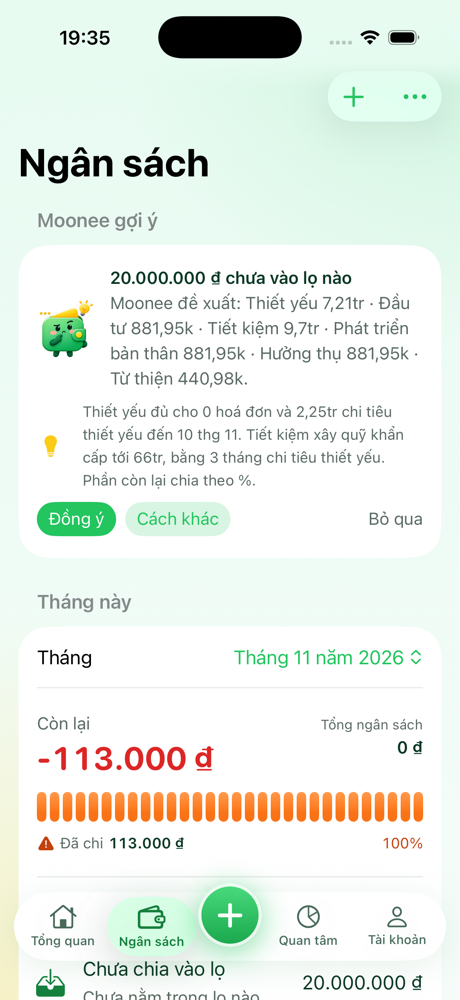
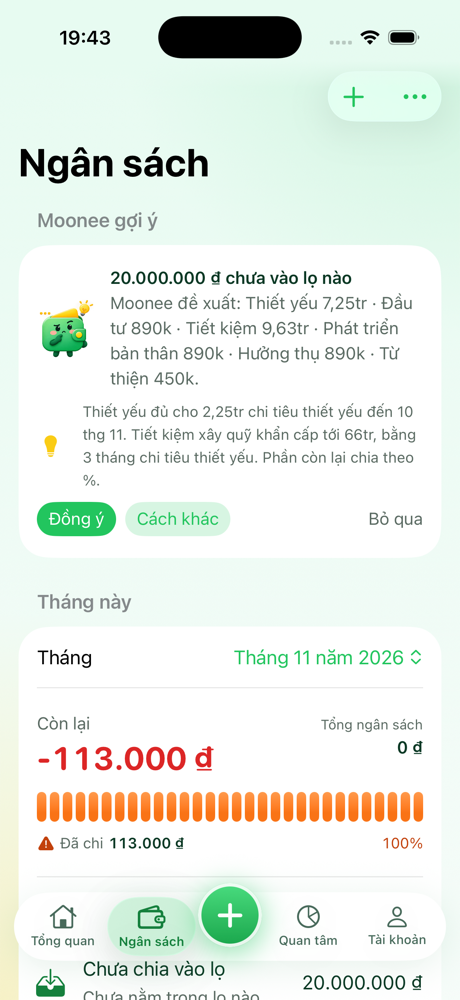
Advisor: clean rounded amounts (Savings absorbs the rest), no zero parts in the why line

Changed region(s): [[0.1826, 0.279, 0.913, 0.496], [0.1826, 0.031, 0.2435, 0.062]]

diff --git a/Moonee/Features/Budget/BudgetAdvisor.swift b/Moonee/Features/Budget/BudgetAdvisor.swift
@@ -230,7 +230,40 @@ struct BudgetAdvisor: Sendable {
         let split = Ledger<String>.split(rest, by: input.jars.map { ($0.id, $0.percent) })
         if split.isEmpty { p.kept += rest } else { p.byPercent = rest }
         for (id, a) in split { p.shares[id, default: 0] += a }
+        p.shares = clean(p.shares)
         return p
+    }
+
+    /// A clean step for an amount: VND/LAK 10k under 1tr, 50k under 10tr, 100k above; other currencies two leading
+    /// digits (881.95 → 10, 7,240 → 100).
+    func step(_ amount: Int) -> Int {
+        let unit = Int(pow(10, Double(AmountFormat.fractionDigits(input.currency))))
+        let major = max(abs(amount) / unit, 1)
+        if ["VND", "LAK"].contains(input.currency) {
+            return (major < 1_000_000 ? 10_000 : major < 10_000_000 ? 50_000 : 100_000) * unit
+        }
+        return max(Int(pow(10, floor(log10(Double(major))) - 1)), 1) * unit
+    }
+
+    /// Rounds down to a clean step, a finer one when the amount is smaller than the step (a daily allowance).
+    func roundDown(_ amount: Int) -> Int {
+        var st = step(amount)
+        while st > 1, amount < st { st /= 10 }
+        return amount / st * st
+    }
+
+    /// Rounds each jar's share up to a clean step (so a need or a refill is never short) and lets Savings (or the last
+    /// jar with a share) absorb the difference, so the plan still adds up exactly. Too small to round: unchanged.
+    func clean(_ shares: [String: Int]) -> [String: Int] {
+        let order = input.jars.map(\.id).filter { shares[$0, default: 0] > 0 }
+        guard let sink = savings.map(\.id).flatMap({ order.contains($0) ? $0 : nil }) ?? order.last else { return shares }
+        var out = shares
+        for id in order where id != sink {
+            let a = shares[id]!, st = step(a)
+            out[id] = (a + st - 1) / st * st
+        }
+        out[sink] = shares.values.reduce(0, +) - out.filter { $0.key != sink }.values.reduce(0, +)
+        return out[sink]! >= 0 ? out : shares
     }
 
     /// Money to cover a jar below zero (`target`) or the jars' promise beyond the wallets (`target` nil), in order:
@@ -245,12 +278,13 @@ struct BudgetAdvisor: Sendable {
             .map { ($0.id, $0.balance, true) }
         var left = need, moves: [Move] = [], reserve = false
         for s in sources where left > 0 && s.available > 0 {
-            let a = min(left, s.available)
+            // A clean amount when the source has it, else exactly what is needed (or all it has).
+            let st = step(left), rounded = (left + st - 1) / st * st, a = rounded <= s.available ? rounded : min(left, s.available)
             moves.append(Move(from: s.id, to: target, amount: a))
             reserve = reserve || s.reserve
             left -= a
         }
-        return (moves, reserve, left)
+        return (moves, reserve, max(left, 0))
     }
 
     /// Every piece of advice that applies now, most urgent first, for the level and without muted kinds.
@@ -321,10 +355,10 @@ struct BudgetAdvisor: Sendable {
             .map { ($0, Double($0.spent) / Double($0.budget)) }
             .filter { $0.1 >= 0.5 && $0.1 - gone >= 0.3 }
             .max { $0.1 - gone < $1.1 - gone }
-        if let (j, used) = fast {
+        if let (j, used) = fast, case let raw = j.balance / daysLeft, case let daily = roundDown(raw) {
             out.append(Advice(kind: .pace, title: String(localized: "\(j.name) is going fast", table: "Budget"),
-                              text: String(localized: "\(Int((used * 100).rounded()))% spent with \(Int((gone * 100).rounded()))% of the month gone. Keep to about \(money(j.balance / daysLeft)) a day until the month ends.", table: "Budget"),
-                              ref: j.id, amount: j.balance / daysLeft))
+                              text: String(localized: "\(Int((used * 100).rounded()))% spent with \(Int((gone * 100).rounded()))% of the month gone. Keep to about \(money(daily)) a day until the month ends.", table: "Budget"),
+                              ref: j.id, amount: daily))
         }
 
         if daysLeft <= 3, let play = input.jars.first(where: { $0.role == .play && $0.balance > 0 }), let s = savings {
@@ -400,8 +434,9 @@ struct BudgetAdvisor: Sendable {
     func why(_ p: Plan) -> String {
         var parts: [String] = []
         if let e = essentials, p.shares[e.id] ?? 0 > 0, p.bills + p.spending > 0 {
-            parts.append(p.bills > 0
+            parts.append(p.bills > 0 && p.spending > 0
                 ? String(localized: "\(e.name) covers \(short(p.bills)) of bills and \(short(p.spending)) of everyday needs until \(day(p.until)).", table: "Budget")
+                : p.bills > 0 ? String(localized: "\(e.name) covers \(short(p.bills)) of bills until \(day(p.until)).", table: "Budget")
                 : String(localized: "\(e.name) covers \(short(p.spending)) of everyday needs until \(day(p.until)).", table: "Budget"))
         }
         if p.refill > 0 { parts.append(String(localized: "\(short(p.refill)) refills jars below zero.", table: "Budget")) }

diff --git a/MooneeTests/BudgetAdvisorTests.swift b/MooneeTests/BudgetAdvisorTests.swift
@@ -74,6 +74,9 @@ import Testing
         #expect(plan.bills == 5_140_000)
         #expect(plan.shares["jar.essentials", default: 0] >= 5_140_000 + 113_000)
         #expect(plan.emergency > 0)
+        let shares = plan.shares.filter { $0.key != "jar.savings" }
+        #expect(shares.allSatisfy { $0.value % pay.advisor.step($0.value) == 0 }) // clean steps
+        #expect(plan.shares.values.reduce(0, +) == 40_000_000)
 
         // One tap records it into the bank and splits it by that plan.
         let t = try #require(BudgetActions.apply(card, date: at(11, 10, 9), in: context, calendar: cal).first)
@@ -99,15 +102,19 @@ import Testing
         #expect(p.emergencyTarget == 66_000_000) // 3 × 22tr
         #expect(p.emergency == 8_819_500) // half of what is left after a–b
         #expect(p.byPercent == 8_819_500)
-        #expect(p.shares["jar.essentials"] == 2_361_000 + 4_850_725)
-        #expect(p.shares["jar.savings"] == 8_819_500 + 881_950)
+        // Clean amounts (50k steps from 1tr, 10k below), rounded up; Savings takes the difference so it adds up.
+        #expect(p.shares["jar.essentials"] == 7_250_000) // 2,361,000 + 55% of the rest = 7,211,725
+        #expect(p.shares["jar.investing"] == 890_000 && p.shares["jar.play"] == 890_000 && p.shares["jar.giving"] == 450_000)
+        #expect(p.shares["jar.savings"] == 9_630_000) // 8,819,500 + 881,950 − 71,450 rounding
         #expect(p.shares.values.reduce(0, +) == 20_000_000)
         #expect(card.text.contains(try jar("jar.essentials", context).name))
 
         BudgetActions.apply(card, date: at(11, 6, 13), in: context, calendar: cal)
         let after = try facts(context, now: at(11, 6, 13))
         #expect(after.unallocated == 0)
-        #expect(try balance("jar.essentials", context) == 7_211_725 - 113_000)
+        #expect(try balance("jar.essentials", context) == 7_250_000 - 113_000)
+        #expect(!card.text.contains(",95") && !card.text.contains(".95")) // no calculator amounts
+        #expect(card.why?.contains(String(localized: "\(try jar("jar.essentials", context).name) covers \("0") of bills", table: "Budget")) == false)
     }
 
     @Test func offBudgetWalletsAreNetWorthOnly() throws {
@@ -203,6 +210,14 @@ import Testing
         #expect(warning?.moves.isEmpty == true)
         manual.muted = [.negativeJar]
         #expect(BudgetAdvisor(manual).advice.isEmpty)
+
+        // Real amounts: the move is a clean 120k when Play has it (Essentials ends slightly above zero).
+        let big = BudgetAdvisor(input([j("ess", .essentials, -113_000, percent: 55), j("play", .play, 500_000)], budget: 387_000, now: at(11, 6)))
+        #expect(big.advice.first { $0.kind == .negativeJar }?.moves == [.init(from: "play", to: "ess", amount: 120_000)])
+        #expect(big.step(881_950) == 10_000 && big.step(7_211_725) == 50_000 && big.step(40_000_000) == 100_000)
+        var usd = big.input
+        usd.currency = "USD"
+        #expect(BudgetAdvisor(usd).step(88_195) == 1_000) // $881.95 → $10 steps
     }
 
     @Test func paceMonthEndAndRebalance() {

diff --git a/Moonee/Core/Components/AmountText.swift b/Moonee/Core/Components/AmountText.swift
@@ -40,7 +40,7 @@ enum AmountFormat {
     }
 
     private static var digitsCache: [String: Int] = [:]
-    private static func fractionDigits(_ code: String) -> Int {
+    static func fractionDigits(_ code: String) -> Int {
         if let d = digitsCache[code] { return d }
         let f = NumberFormatter()
         f.numberStyle = .currency

diff --git a/docs/FEATURES.md b/docs/FEATURES.md
@@ -171,6 +171,7 @@ Moonee hành xử như một người hiểu tài chính cá nhân, trừ khi us
      c. quỹ khẩn cấp: Tiết kiệm hướng tới 3 tháng chi tiêu thiết yếu (3–6, bắt đầu 3); chưa đủ thì nhận một nửa phần còn lại;
      d. phần còn lại chia theo %.
      Nếu các lọ đang giữ nhiều hơn ví thì phần thiếu đó để lại chưa chia trước.
+     **Số tròn:** mỗi phần làm tròn lên bước gọn (dưới 1tr: 10k, dưới 10tr: 50k, từ 10tr: 100k; tiền tệ khác: hai chữ số đầu), Tiết kiệm (hoặc lọ cuối) nhận phần chênh để tổng vẫn đúng. Bù lọ âm cũng dùng số tròn khi lọ nguồn đủ. Dòng "vì sao" bỏ phần bằng 0.
   6. **Hoá đơn đến hạn** hôm nay/ngày mai.
   7. **Tiêu nhanh:** lọ đã dùng ≥ 50% và nhanh hơn tháng ≥ 30 điểm (ví dụ 80% khi tháng mới qua 40%) → mức tiêu mỗi ngày đến cuối tháng = số dư / số ngày còn lại.
   8. **Cuối tháng** (3 ngày cuối): Hưởng thụ còn dư → giữ lại hay chuyển sang Tiết kiệm?
